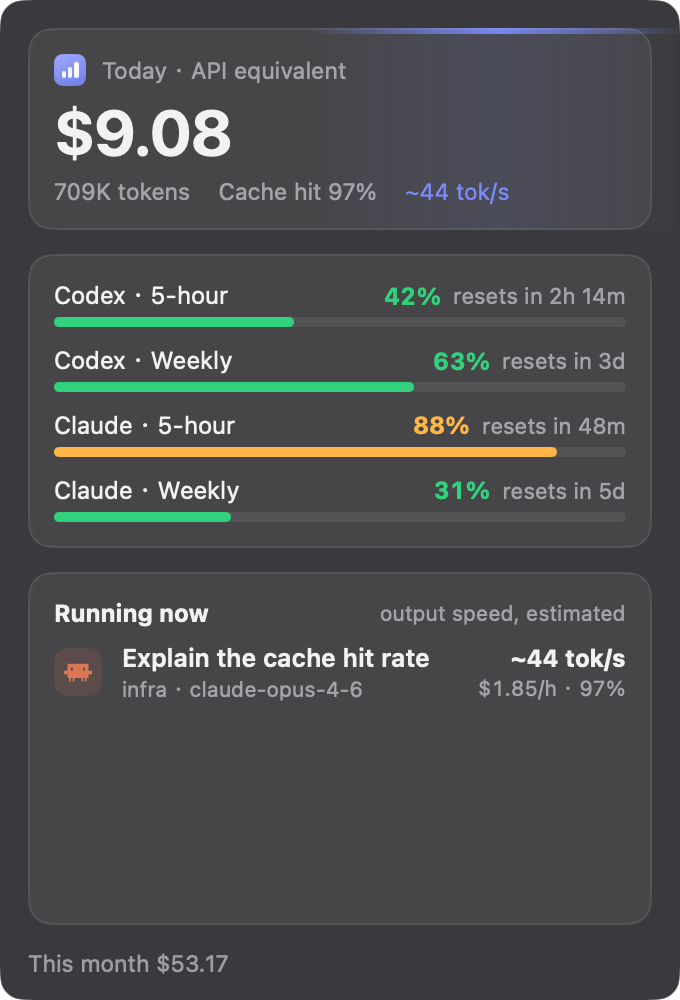
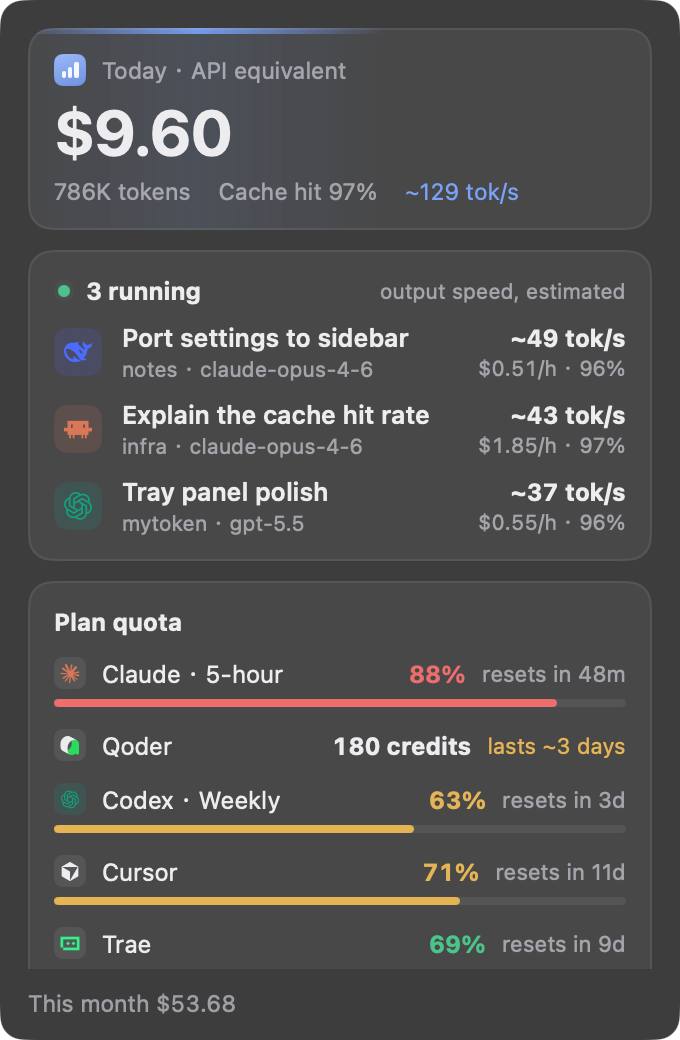
docs: screenshots and captions for the redesigned interface

diff --git a/README.md b/README.md
@@ -53,7 +53,7 @@ contacted.
 
 | Overview | Sessions |
 | --- | --- |
-| ![Overview: today's spend, month forecast, plan quotas, daily spend by tool](docs/screenshots/overview.png) | ![Sessions: virtual list, cumulative cost and every request of one session](docs/screenshots/sessions.png) |
+| ![Overview: today's spend, sessions running now, this month vs last month with a forecast, plan quotas and credit balances](docs/screenshots/overview.png) | ![Sessions: virtual list, cumulative cost and every request of one session](docs/screenshots/sessions.png) |
 
 | Ranking | Menu bar panel |
 | --- | --- |

diff --git a/README.zh-CN.md b/README.zh-CN.md
@@ -44,7 +44,7 @@
 
 | 概览 | 会话 |
 | --- | --- |
-| ![概览：今日花费、本月预测、套餐额度、按工具的每日花费](docs/screenshots/overview.png) | ![会话：虚拟列表、单个会话的累计花费与每次请求](docs/screenshots/sessions.png) |
+| ![概览：今日花费、正在进行的会话、本月累计与上月对比及预测、套餐额度与积分余额](docs/screenshots/overview.png) | ![会话：虚拟列表、单个会话的累计花费与每次请求](docs/screenshots/sessions.png) |
 
 | 排行 | 菜单栏面板 |
 | --- | --- |
